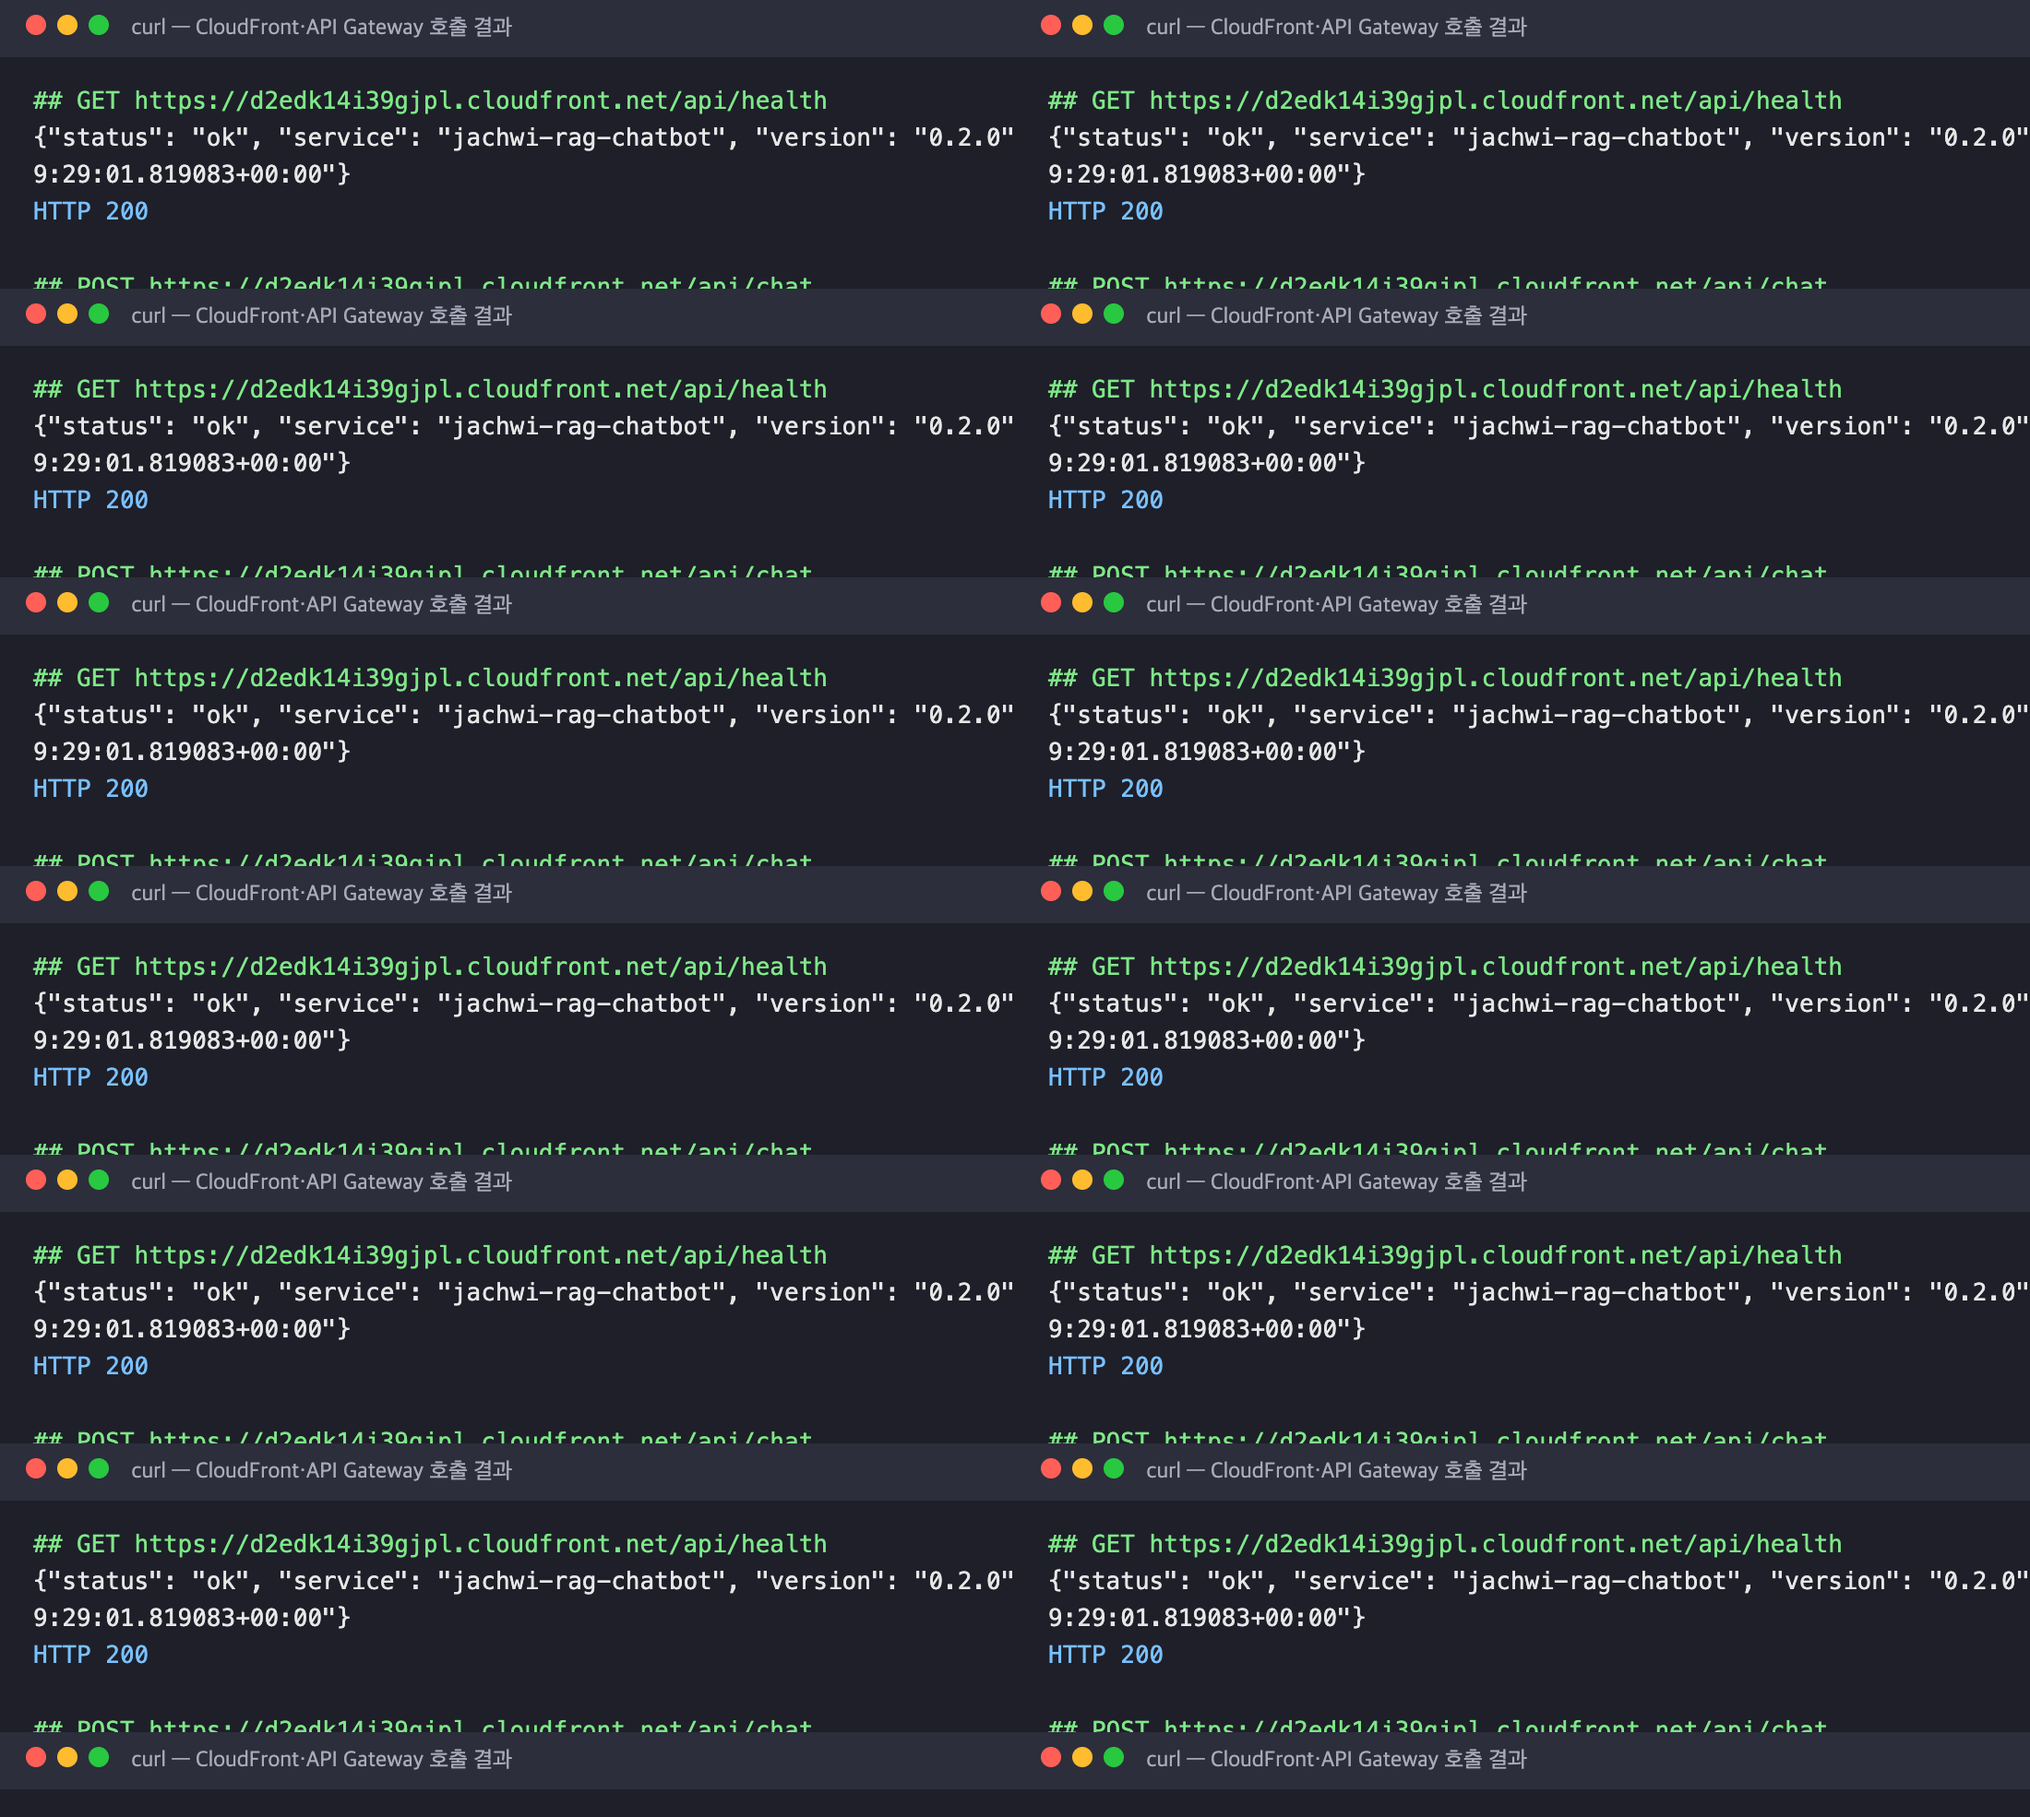
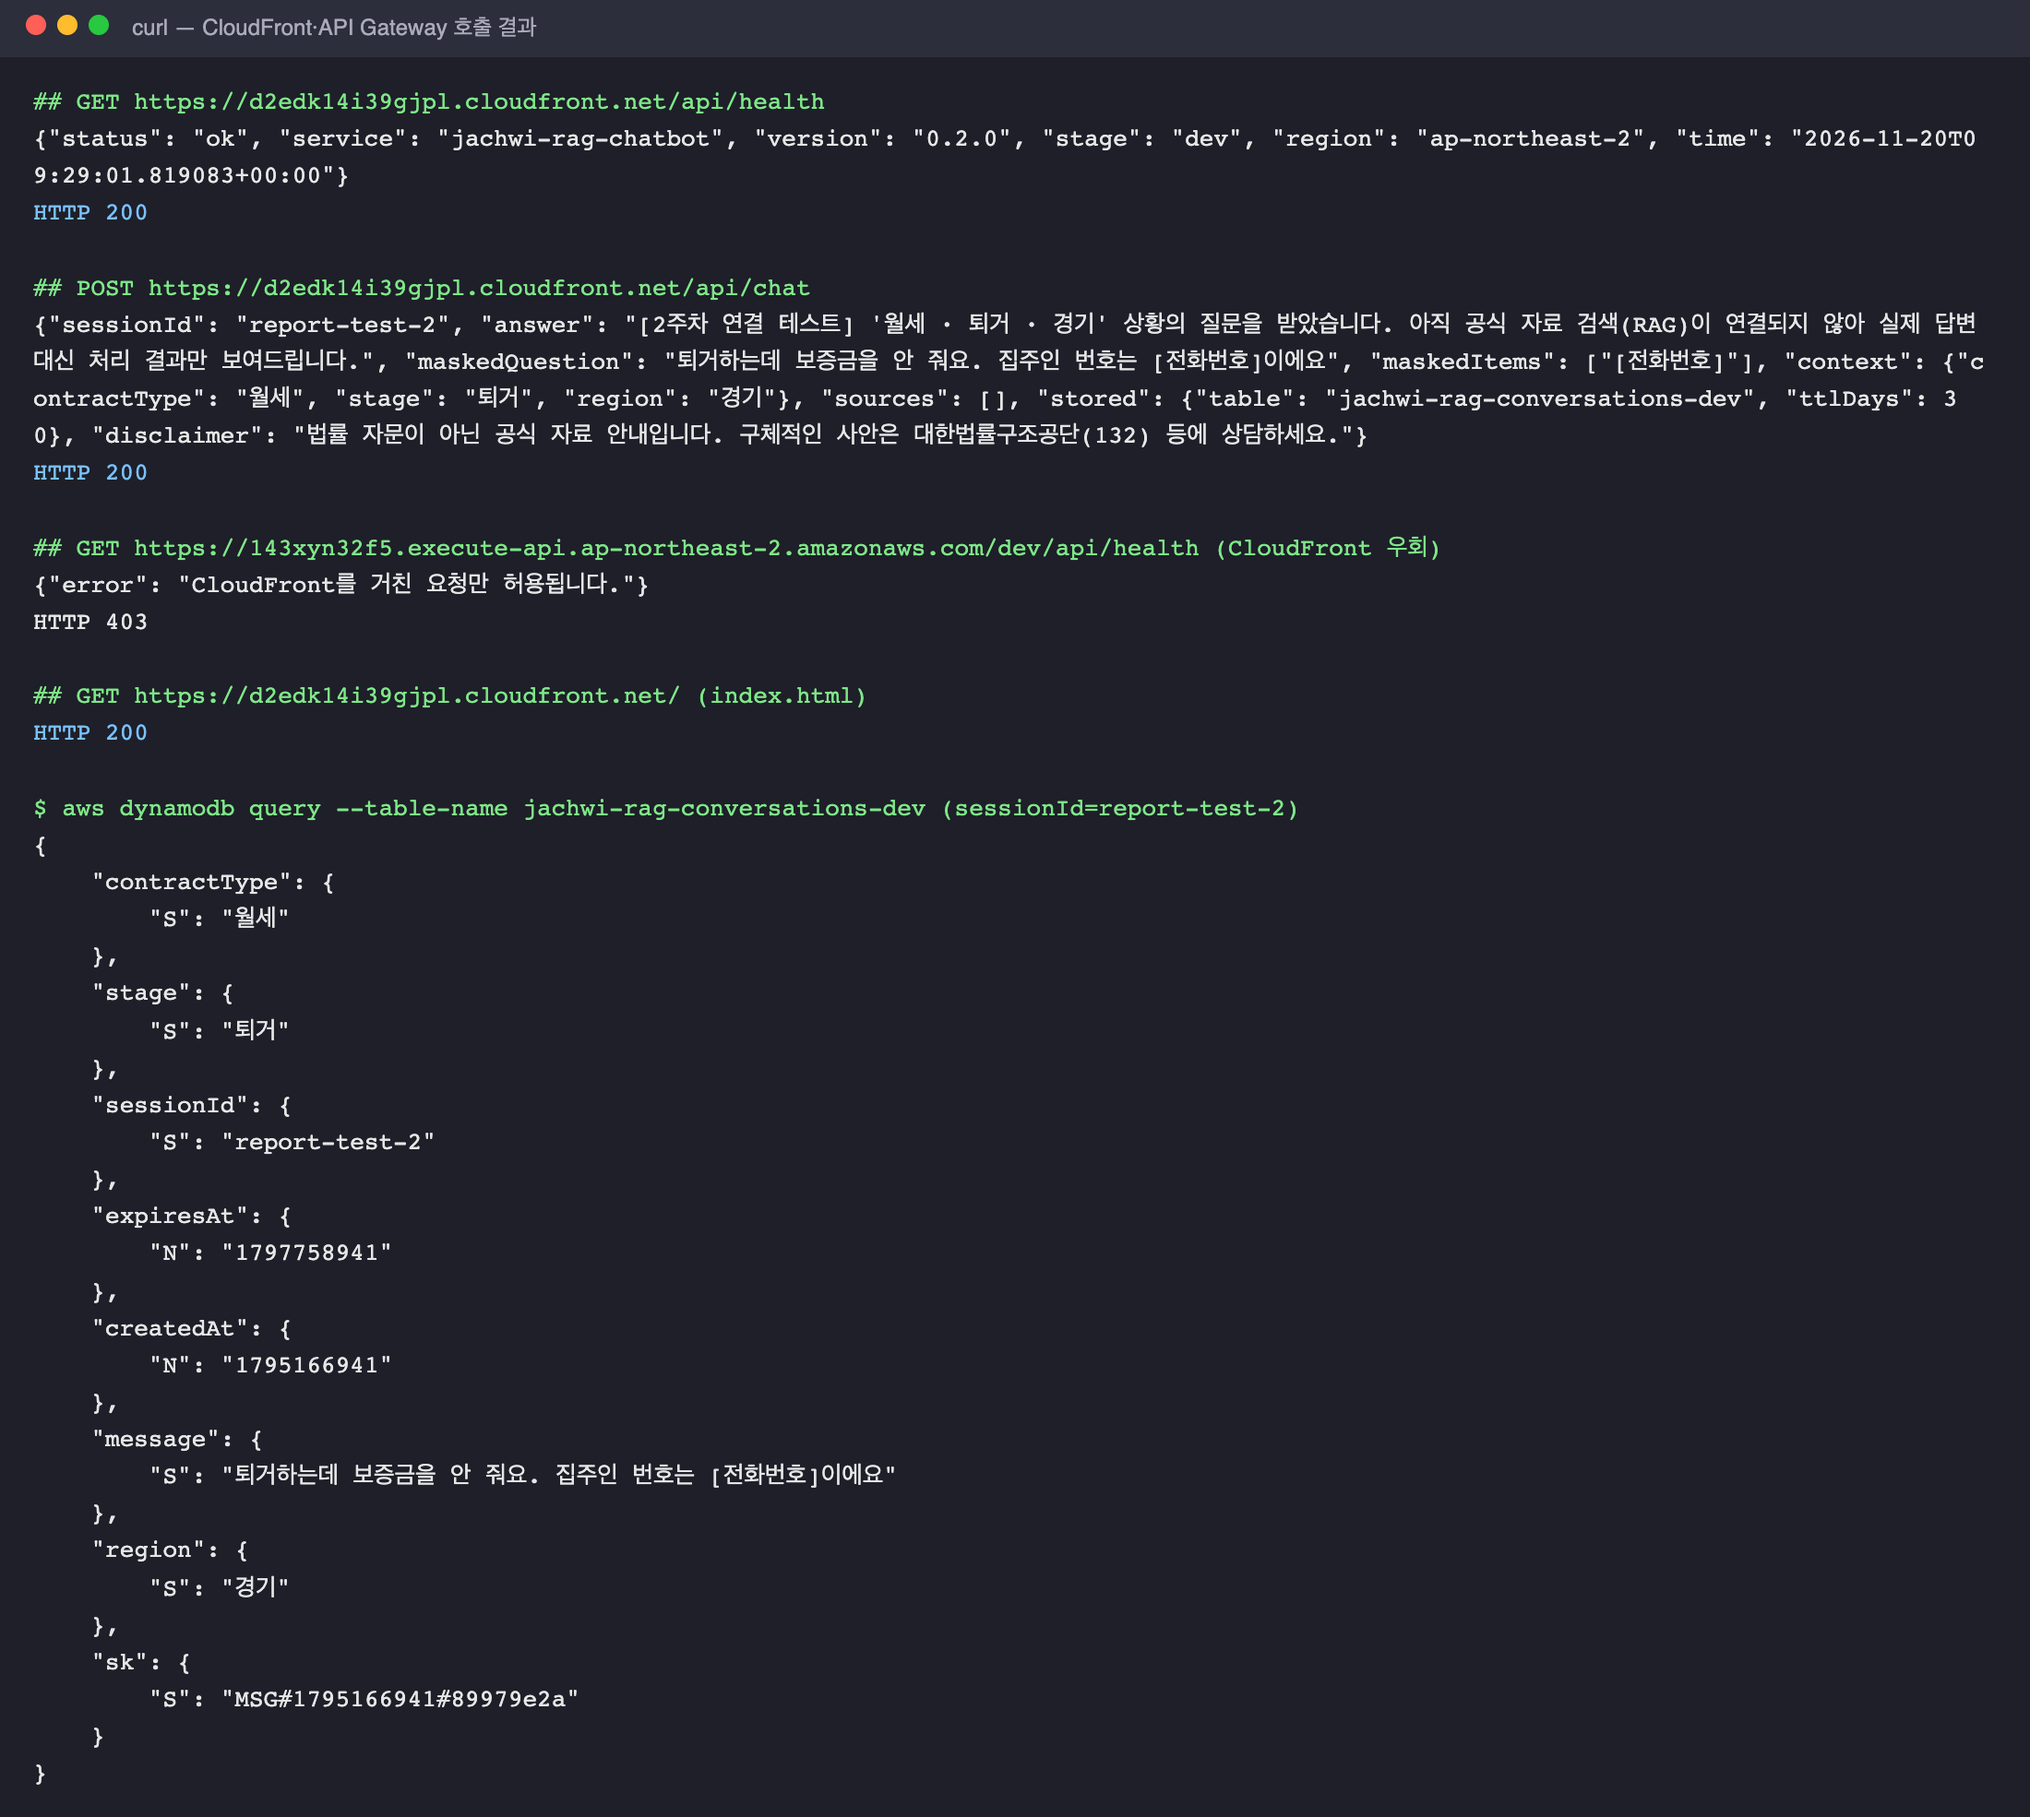
실행 확인 캡처: 터미널 화면이 반복돼 찍히던 문제 수정
창 크기를 바꾼 직후 full_page로 찍으면 같은 장면이 타일처럼 반복돼 찍혔다.
내용 높이를 먼저 잰 뒤 그 높이의 새 창에서 찍도록 바꾸고 그림 02~05를 다시 캡처했다.

diff --git a/scripts/capture_screens.py b/scripts/capture_screens.py
@@ -60,9 +60,18 @@ def main(site: str, repo: str) -> None:
             if src == "curl.txt":
                 text += "\n$ aws dynamodb query --table-name jachwi-rag-conversations-dev (sessionId=report-test-2)\n"
                 text += (EVID / "dynamodb.json").read_text()
-            page.set_content(term_html(title, text))
-            page.set_viewport_size({"width": 1100, "height": 400})
-            page.screenshot(path=str(OUT / name), full_page=True)
+            # 내용 높이를 먼저 잰 뒤 그 높이의 새 창에서 찍는다
+            # (창 크기를 바꾼 직후나 full_page로 찍으면 같은 장면이 반복돼 찍힘)
+            doc = term_html(title, text)
+            probe = browser.new_page(viewport={"width": 1100, "height": 300})
+            probe.set_content(doc)
+            height = probe.evaluate("document.documentElement.scrollHeight")
+            probe.close()
+            shot = browser.new_page(viewport={"width": 1100, "height": height}, device_scale_factor=2)
+            shot.set_content(doc)
+            shot.wait_for_timeout(300)
+            shot.screenshot(path=str(OUT / name))
+            shot.close()
 
         # 6) GitHub 저장소
         page.set_viewport_size({"width": 1280, "height": 900})
